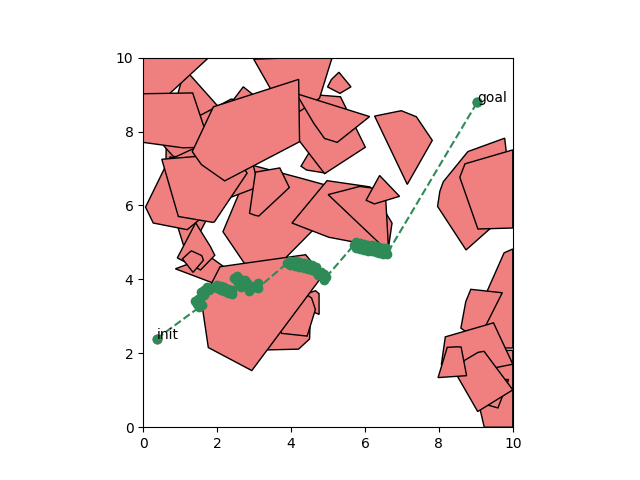
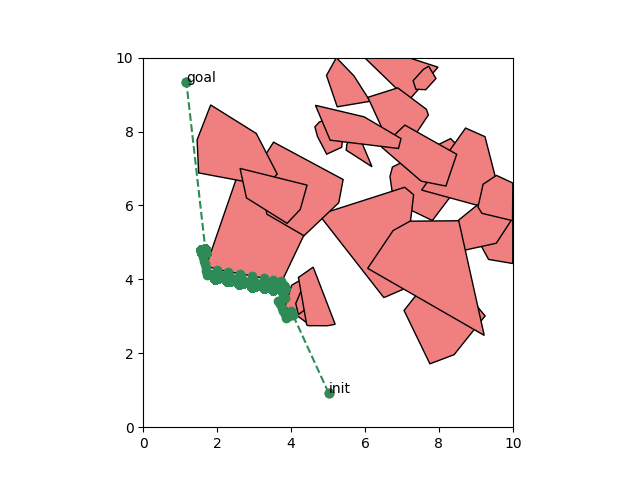
better plan() but doesnt circumnavigate completely

Changed region(s): [[0.2188, 0.125, 0.8125, 0.9062], [0.5, 0.7812, 0.5625, 0.8438], [0.2188, 0.6562, 0.2812, 0.7188]]

diff --git a/ws/hw2/MyBugAlgorithm.cpp b/ws/hw2/MyBugAlgorithm.cpp
@@ -1,157 +1,177 @@
 #include "MyBugAlgorithm.h"
 #include <algorithm>
 #include <limits>
+#define _USE_MATH_DEFINES
+#include <math.h>
 
-// Constants for numerical stability
-static constexpr double EPS = 1e-9;
-static constexpr double LEAVE_EPS = 1e-3; // How far to nudge away from the wall
-static constexpr double IMPROVE_MIN = 1e-5; // Required improvement to leave
+// =================================================================
+// ALGORITHM PARAMETERS - You can tune these!
+// =================================================================
+static constexpr double STEP_SIZE = 0.1;
+static constexpr double WALL_FOLLOW_DISTANCE = 0.2;
+static constexpr double SENSOR_RANGE = 0.5;
+static constexpr double GOAL_RADIUS = 0.2;
+static constexpr double HIT_POINT_RADIUS = 0.15; // How close to get to the start to count as a full loop
+
 
 amp::Path2D MyBugAlgorithm::plan(const amp::Problem2D& problem) {
-    const Eigen::Vector2d qs = problem.q_init;
-    const Eigen::Vector2d qg = problem.q_goal;
-    const auto& obstacles = problem.obstacles;
-
-    std::vector<Eigen::Vector2d> polyline;
-    polyline.push_back(qs);
-
-    Eigen::Vector2d current_pos = qs;
+    amp::Path2D path;
+    path.waypoints.push_back(problem.q_init);
+    
+    Eigen::Vector2d current_pos = problem.q_init;
     int loop_guard = 0;
 
-    while ((current_pos - qg).norm() > 1e-6 && loop_guard++ < 200) {
-        // 1. Try to move straight to goal, find the first hit
-        Hit hit = findFirstHit(current_pos, qg, obstacles);
-        if (!hit.hit) {
-            appendSegment(polyline, current_pos, qg);
-            break; // Path to goal is clear
-        }
-        appendSegment(polyline, current_pos, hit.point);
-        current_pos = hit.point;
+    while ((current_pos - problem.q_goal).norm() > GOAL_RADIUS && loop_guard++ < 2000) {
+        // STATE 1: MOVE TO GOAL
+        Eigen::Vector2d heading_to_goal = (problem.q_goal - current_pos).normalized();
+        SensorHit front_hit = checkSensor(current_pos, heading_to_goal, (problem.q_goal - current_pos).norm(), problem.obstacles);
 
-        // 2. Survey the entire obstacle boundary to find the optimal leave point (L*)
-        Eigen::Vector2d Lstar; 
-        size_t L_edgeIdx;
-        surveyBoundaryForLstar(obstacles[hit.obsIdx], turn_, qg, Lstar, L_edgeIdx);
-
-        // 3. If L* isn't meaningfully better than the hit point, we are likely trapped.
-        if (dgoal(hit.point, qg) - dgoal(Lstar, qg) < IMPROVE_MIN) {
+        if (!front_hit.found) {
+            // Path to goal is clear, we are done
+            path.waypoints.push_back(problem.q_goal);
             break;
         }
+        
+        // Add path to the hit point
+        Eigen::Vector2d hit_point = current_pos + heading_to_goal * front_hit.distance;
+        path.waypoints.push_back(hit_point);
+        current_pos = hit_point;
 
-        // 4. Generate the path along the boundary from the hit point to L*
-        travelToLeavePoint(obstacles[hit.obsIdx], hit.edgeIdx, hit.point, turn_, Lstar, L_edgeIdx, polyline);
-        current_pos = Lstar;
+        // STATE 2: WALL FOLLOW (BUG 1)
+        // Turn left 90 degrees to start the wall follow
+        Eigen::Rotation2Dd turn_left(M_PI / 2.0);
+        Eigen::Vector2d initial_follow_heading = turn_left * heading_to_goal;
 
-        // 5. Leave the obstacle by nudging away from the wall
-        const auto V = vertsOf(obstacles[hit.obsIdx]);
-        const Eigen::Vector2d outward_normal = getOutwardNormal(V, L_edgeIdx, Lstar);
-        current_pos += outward_normal * LEAVE_EPS;
-        appendSegment(polyline, Lstar, current_pos);
+        // This single function call now handles the entire Bug 1 process:
+        // discovering the boundary, mapping it, and finding L*.
+        WallFollowResult result = performBug1WallFollow(current_pos, initial_follow_heading, problem);
+
+        // Now, find L* in the path we just discovered
+        size_t l_star_index = 0;
+        double min_dist = std::numeric_limits<double>::infinity();
+        for (size_t i = 0; i < result.discovery_path.size(); ++i) {
+            double dist = (result.discovery_path[i] - problem.q_goal).norm();
+            if (dist < min_dist) {
+                min_dist = dist;
+                l_star_index = i;
+            }
+        }
+        
+        // Append the path from the hit point to L*
+        for (size_t i = 0; i <= l_star_index; ++i) {
+            path.waypoints.push_back(result.discovery_path[i]);
+        }
+        
+        current_pos = result.discovery_path[l_star_index];
+
+        // Leave the obstacle
+        Eigen::Vector2d last_step = (result.discovery_path[l_star_index] - result.discovery_path[l_star_index - 1]).normalized();
+        Eigen::Rotation2Dd turn_right(-M_PI / 2.0);
+        Eigen::Vector2d outward_normal = turn_right * last_step; // Normal is perpendicular to the direction of travel
+        current_pos += outward_normal * 0.1; // Nudge away from the wall
+        path.waypoints.push_back(current_pos);
     }
 
-    return amp::Path2D{polyline};
+    return path;
 }
 
-// ===========================================================================
-// HELPER FUNCTION IMPLEMENTATIONS
-// ===========================================================================
 
-std::vector<Eigen::Vector2d> MyBugAlgorithm::vertsOf(const amp::Obstacle2D& obs) {
-    return obs.verticesCW();
+MyBugAlgorithm::WallFollowResult MyBugAlgorithm::performBug1WallFollow(const Eigen::Vector2d& hit_point, const Eigen::Vector2d& initial_heading, const amp::Problem2D& problem) {
+    WallFollowResult result;
+    result.closest_point_to_goal = hit_point;
+    double min_dist_to_goal = (hit_point - problem.q_goal).norm();
+
+    Eigen::Vector2d current_pos = hit_point;
+    Eigen::Vector2d heading = initial_heading;
+
+    int follow_steps = 0;
+    // Loop until we make a full circle and get back to the hit_point
+    while (follow_steps++ < 10000) {
+        // Reactive steering logic
+        Eigen::Rotation2Dd turn_right(-M_PI / 2.0);
+        Eigen::Rotation2Dd turn_left(M_PI / 2.0);
+        Eigen::Vector2d right_dir = turn_right * heading;
+        Eigen::Vector2d front_dir = heading;
+
+        SensorHit right_sensor = checkSensor(current_pos, right_dir, SENSOR_RANGE, problem.obstacles);
+        SensorHit front_sensor = checkSensor(current_pos, front_dir, WALL_FOLLOW_DISTANCE, problem.obstacles);
+
+        if (front_sensor.found) {
+            heading = turn_left * heading; // Inner corner, turn left
+        } else if (!right_sensor.found || right_sensor.distance > WALL_FOLLOW_DISTANCE * 1.5) {
+            heading = turn_right * heading; // Outer corner, turn right
+        } else {
+            double error = WALL_FOLLOW_DISTANCE - right_sensor.distance;
+            Eigen::Rotation2Dd correction(error * 0.5); // Corrective steering
+            heading = correction * heading;
+        }
+
+        current_pos += STEP_SIZE * heading.normalized();
+        result.discovery_path.push_back(current_pos);
+
+        // While discovering, keep track of the closest point to the goal (L*)
+        double current_dist_to_goal = (current_pos - problem.q_goal).norm();
+        if (current_dist_to_goal < min_dist_to_goal) {
+            min_dist_to_goal = current_dist_to_goal;
+            result.closest_point_to_goal = current_pos;
+        }
+
+        // Check if we have completed a full lap
+        if (follow_steps > 50 && (current_pos - hit_point).norm() < HIT_POINT_RADIUS) {
+            break; // We are back at the start, survey is complete.
+        }
+    }
+    
+    return result;
 }
 
-bool MyBugAlgorithm::segSegIntersect(const Eigen::Vector2d& p, const Eigen::Vector2d& q,
-                                     const Eigen::Vector2d& a, const Eigen::Vector2d& b,
-                                     double& t, double& u, Eigen::Vector2d& x) {
-    const Eigen::Vector2d r = q - p, s = b - a;
-    const double denom = r.x()*s.y() - r.y()*s.x();
-    const double num_t = (a.x()-p.x())*s.y() - (a.y()-p.y())*s.x();
-    const double num_u = (a.x()-p.x())*r.y() - (a.y()-p.y())*r.x();
-    if (std::abs(denom) < EPS) return false;
-    t = num_t / denom; u = num_u / denom;
-    if (t < -EPS || t > 1.0 + EPS || u < -EPS || u > 1.0 + EPS) return false;
-    x = p + t * r;
-    return true;
-}
 
-Eigen::Vector2d MyBugAlgorithm::closestPointOnSegment(const Eigen::Vector2d& A, const Eigen::Vector2d& B, const Eigen::Vector2d& P) {
-    const Eigen::Vector2d AB = B - A;
-    if (AB.squaredNorm() <= EPS) return A;
-    double t = (P - A).dot(AB) / AB.squaredNorm();
-    t = std::max(0.0, std::min(1.0, t));
-    return A + t * AB;
-}
+// =================================================================
+// SENSOR AND INTERSECTION HELPERS
+// =================================================================
 
-MyBugAlgorithm::Hit MyBugAlgorithm::findFirstHit(const Eigen::Vector2d& s, const Eigen::Vector2d& g,
-                                                 const std::vector<amp::Obstacle2D>& obstacles) {
-    Hit best_hit; 
-    double best_t = std::numeric_limits<double>::infinity();
-    for (size_t i = 0; i < obstacles.size(); ++i) {
-        auto V = vertsOf(obstacles[i]);
-        for (size_t e = 0; e < V.size(); ++e) {
-            double t, u; Eigen::Vector2d intersection_point;
-            if (segSegIntersect(s, g, V[e], V[(e + 1) % V.size()], t, u, intersection_point)) {
-                if (t >= EPS && t < best_t) {
-                    best_t = t;
-                    best_hit = {true, i, e, intersection_point};
+MyBugAlgorithm::SensorHit MyBugAlgorithm::checkSensor(const Eigen::Vector2d& pos, const Eigen::Vector2d& dir, double range,
+                                                      const std::vector<amp::Obstacle2D>& obstacles) {
+    SensorHit result;
+    Eigen::Vector2d ray_end = pos + dir.normalized() * range;
+
+    for (const auto& obs : obstacles) {
+        auto vertices = obs.verticesCW();
+        for (size_t i = 0; i < vertices.size(); ++i) {
+            Eigen::Vector2d p1 = vertices[i];
+            Eigen::Vector2d p2 = vertices[(i + 1) % vertices.size()];
+            
+            double t, u;
+            if (segSegIntersect(pos, ray_end, p1, p2, t, u)) {
+                if (t >= -1e-9 && t <= 1.0 + 1e-9) {
+                    double dist = t * range;
+                    if (dist < result.distance) {
+                        result.distance = dist;
+                        result.found = true;
+                    }
                 }
             }
         }
     }
-    return best_hit;
+    return result;
 }
 
-void MyBugAlgorithm::surveyBoundaryForLstar(const amp::Obstacle2D& O, Turn turn,
-                                            const Eigen::Vector2d& qg,
-                                            Eigen::Vector2d& Lstar, size_t& L_edgeIdx) {
-    auto V = vertsOf(O);
-    if (V.empty()) return;
+bool MyBugAlgorithm::segSegIntersect(const Eigen::Vector2d& p, const Eigen::Vector2d& q,
+                                     const Eigen::Vector2d& a, const Eigen::Vector2d& b,
+                                     double& t, double& u) {
+    const Eigen::Vector2d r = q - p;
+    const Eigen::Vector2d s = b - a;
+    const double denom = r.x() * s.y() - r.y() * s.x();
+    const double num_t = (a - p).x() * s.y() - (a - p).y() * s.x();
+    const double num_u = (a - p).x() * r.y() - (a - p).y() * r.x();
 
-    Lstar = V[0];
-    L_edgeIdx = 0;
-    double min_dist = dgoal(Lstar, qg);
+    if (std::abs(denom) < 1e-9) return false;
 
-    for (size_t e = 0; e < V.size(); ++e) {
-        Eigen::Vector2d C = closestPointOnSegment(V[e], V[(e + 1) % V.size()], qg);
-        double d = dgoal(C, qg);
-        if (d < min_dist) {
-            min_dist = d;
-            Lstar = C;
-            L_edgeIdx = e;
-        }
+    t = num_t / denom;
+    u = num_u / denom;
+
+    if (t >= -1e-9 && t <= 1.0 + 1e-9 && u >= -1e-9 && u <= 1.0 + 1e-9) {
+        return true;
     }
-}
-
-void MyBugAlgorithm::travelToLeavePoint(const amp::Obstacle2D& O, size_t hit_edgeIdx,
-                                        const Eigen::Vector2d& hit_point, Turn turn,
-                                        const Eigen::Vector2d& Lstar, size_t L_edgeIdx,
-                                        std::vector<Eigen::Vector2d>& polyline) {
-    auto V = vertsOf(O);
-    if (V.empty()) return;
-    
-    appendSegment(polyline, polyline.back(), hit_point);
-
-    size_t current_edge = hit_edgeIdx;
-    while (current_edge != L_edgeIdx) {
-        size_t next_vertex_idx = (turn == RIGHT) ? (current_edge + 1) % V.size() : current_edge;
-        appendSegment(polyline, polyline.back(), V[next_vertex_idx]);
-        current_edge = (turn == RIGHT) ? (current_edge + 1) % V.size() : (current_edge + V.size() - 1) % V.size();
-    }
-    
-    appendSegment(polyline, polyline.back(), Lstar);
-}
-
-Eigen::Vector2d MyBugAlgorithm::getOutwardNormal(const std::vector<Eigen::Vector2d>& V,
-                                                 size_t edgeIdx, const Eigen::Vector2d& point) {
-    const Eigen::Vector2d A = V[edgeIdx];
-    const Eigen::Vector2d B = V[(edgeIdx + 1) % V.size()];
-    Eigen::Vector2d edge_vec = (B - A).normalized();
-    // For CW vertices, the outward normal is a right turn from the edge direction
-    return Eigen::Vector2d(-edge_vec.y(), edge_vec.x());
-}
-
-void MyBugAlgorithm::appendSegment(std::vector<Eigen::Vector2d>& out,
-                                   const Eigen::Vector2d& a, const Eigen::Vector2d& b) {
-    if (out.empty() || (out.back() - a).norm() > EPS) out.push_back(a);
-    if ((out.back() - b).norm() > EPS) out.push_back(b);
+    return false;
 }

diff --git a/ws/hw2/MyBugAlgorithm.h b/ws/hw2/MyBugAlgorithm.h
@@ -7,52 +7,33 @@
 
 class MyBugAlgorithm : public amp::BugAlgorithm {
 public:
-    enum Turn { LEFT, RIGHT };
+    MyBugAlgorithm() {}
 
-    // Default is a right-hand-on-wall traversal
-    explicit MyBugAlgorithm(Turn turn = RIGHT) : turn_(turn) {}
-
-    // The main planning method
     virtual amp::Path2D plan(const amp::Problem2D& problem) override;
 
 private:
-    // Struct to hold information about a collision
-    struct Hit {
-        bool hit = false;
-        size_t obsIdx = 0;
-        size_t edgeIdx = 0;
-        Eigen::Vector2d point;
+    // Struct to hold sensor information
+    struct SensorHit {
+        bool found = false;
+        double distance = std::numeric_limits<double>::infinity();
     };
 
-    // Helper Functions
-    static std::vector<Eigen::Vector2d> vertsOf(const amp::Obstacle2D& obs);
+    // Struct to return the results of the wall-following discovery process
+    struct WallFollowResult {
+        Eigen::Vector2d closest_point_to_goal; // This will be L*
+        std::vector<Eigen::Vector2d> discovery_path; // The path taken during circumnavigation
+    };
+
+    // Sensor simulation function
+    SensorHit checkSensor(const Eigen::Vector2d& pos, const Eigen::Vector2d& dir, double range,
+                          const std::vector<amp::Obstacle2D>& obstacles);
+    
+    // Main function for the new reactive boundary following
+    WallFollowResult performBug1WallFollow(const Eigen::Vector2d& hit_point, const Eigen::Vector2d& initial_heading,
+                                           const amp::Problem2D& problem);
+
+    // Basic intersection helper
     static bool segSegIntersect(const Eigen::Vector2d& p, const Eigen::Vector2d& q,
                                 const Eigen::Vector2d& a, const Eigen::Vector2d& b,
-                                double& t, double& u, Eigen::Vector2d& x);
-    static inline double dgoal(const Eigen::Vector2d& p, const Eigen::Vector2d& g) {
-        return (p - g).norm();
-    }
-    static Eigen::Vector2d closestPointOnSegment(const Eigen::Vector2d& A,
-                                                 const Eigen::Vector2d& B,
-                                                 const Eigen::Vector2d& P);
-    static Hit findFirstHit(const Eigen::Vector2d& s, const Eigen::Vector2d& g,
-                            const std::vector<amp::Obstacle2D>& obstacles);
-    
-    // Surveys the entire boundary to find L*
-    static void surveyBoundaryForLstar(const amp::Obstacle2D& O, Turn turn,
-                                       const Eigen::Vector2d& qg,
-                                       Eigen::Vector2d& Lstar, size_t& L_edgeIdx);
-    
-    // Generates the path from the hit point to the leave point (L*)
-    static void travelToLeavePoint(const amp::Obstacle2D& O, size_t hit_edgeIdx,
-                                   const Eigen::Vector2d& hit_point, Turn turn,
-                                   const Eigen::Vector2d& Lstar, size_t L_edgeIdx,
-                                   std::vector<Eigen::Vector2d>& polyline);
-
-    static Eigen::Vector2d getOutwardNormal(const std::vector<Eigen::Vector2d>& V,
-                                            size_t edgeIdx, const Eigen::Vector2d& point);
-    static void appendSegment(std::vector<Eigen::Vector2d>& out,
-                              const Eigen::Vector2d& a, const Eigen::Vector2d& b);
-
-    Turn turn_;
+                                double& t, double& u);
 };
